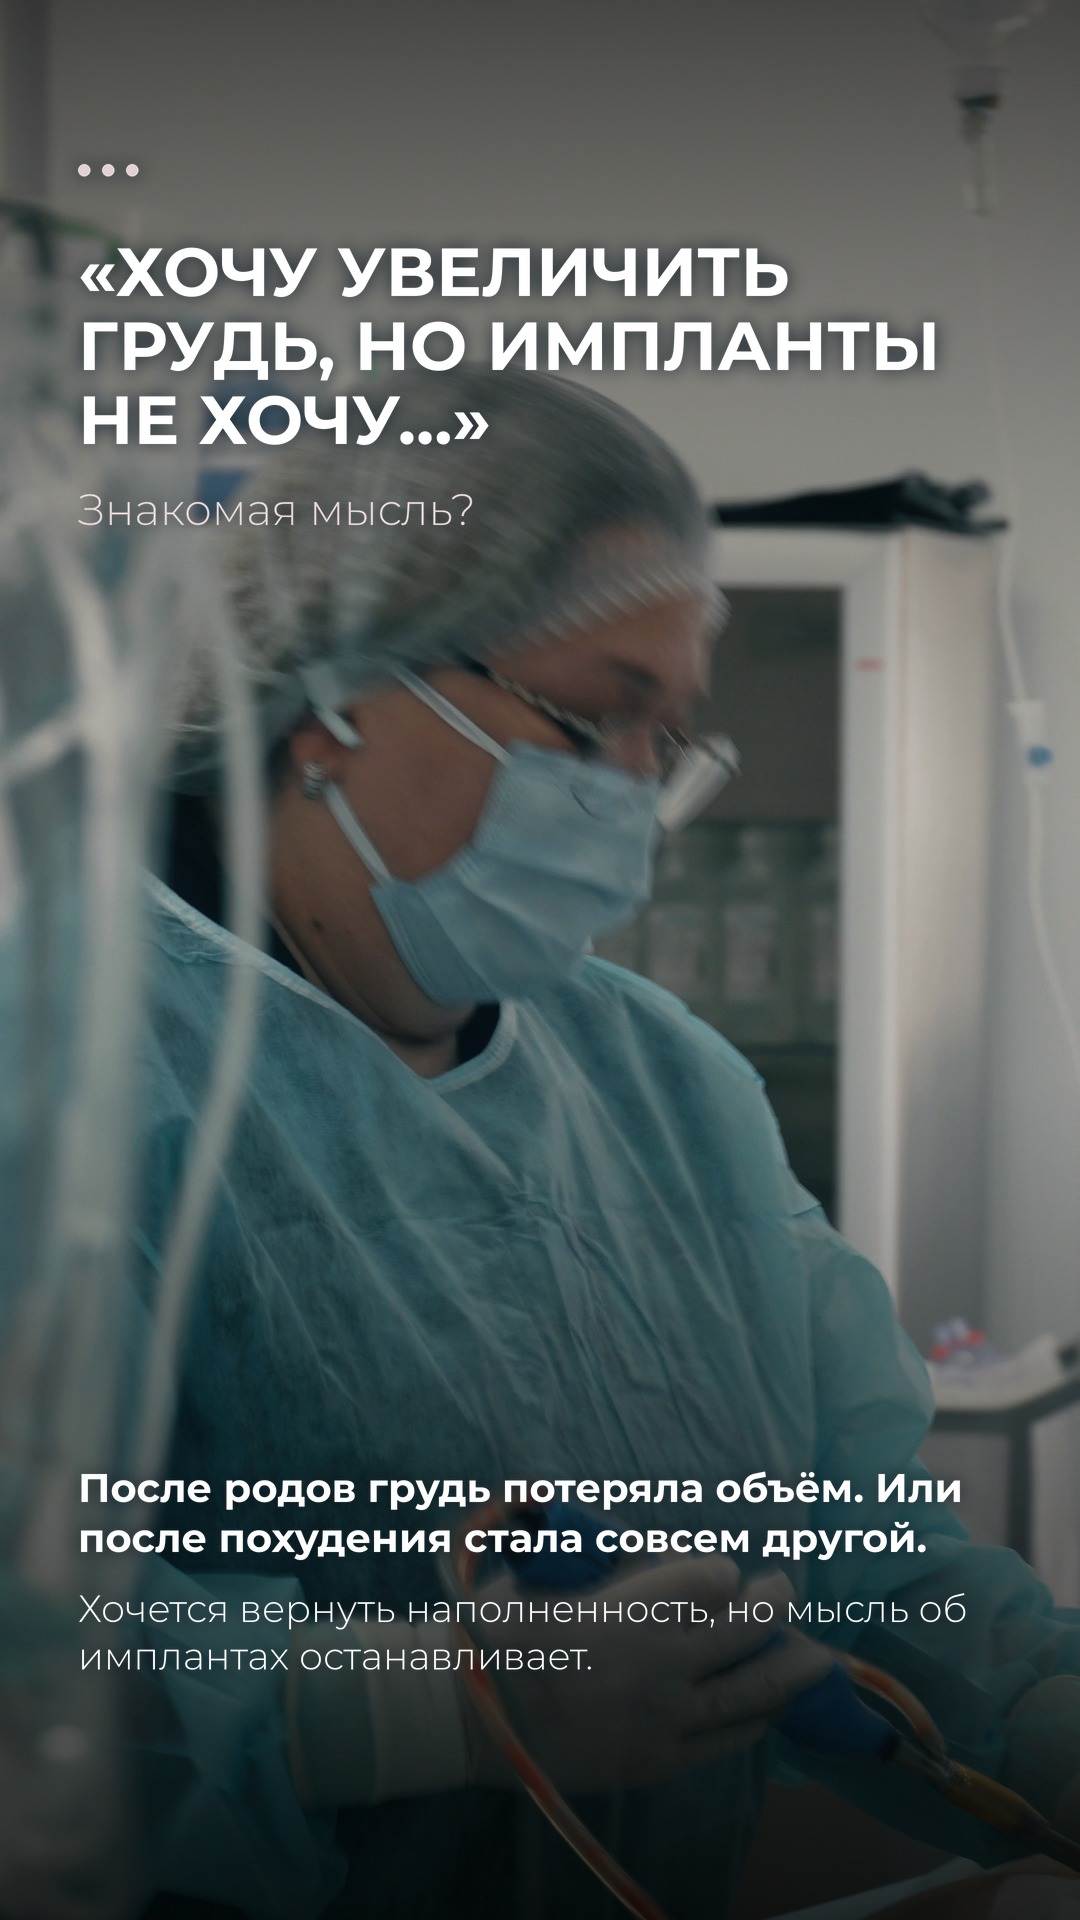
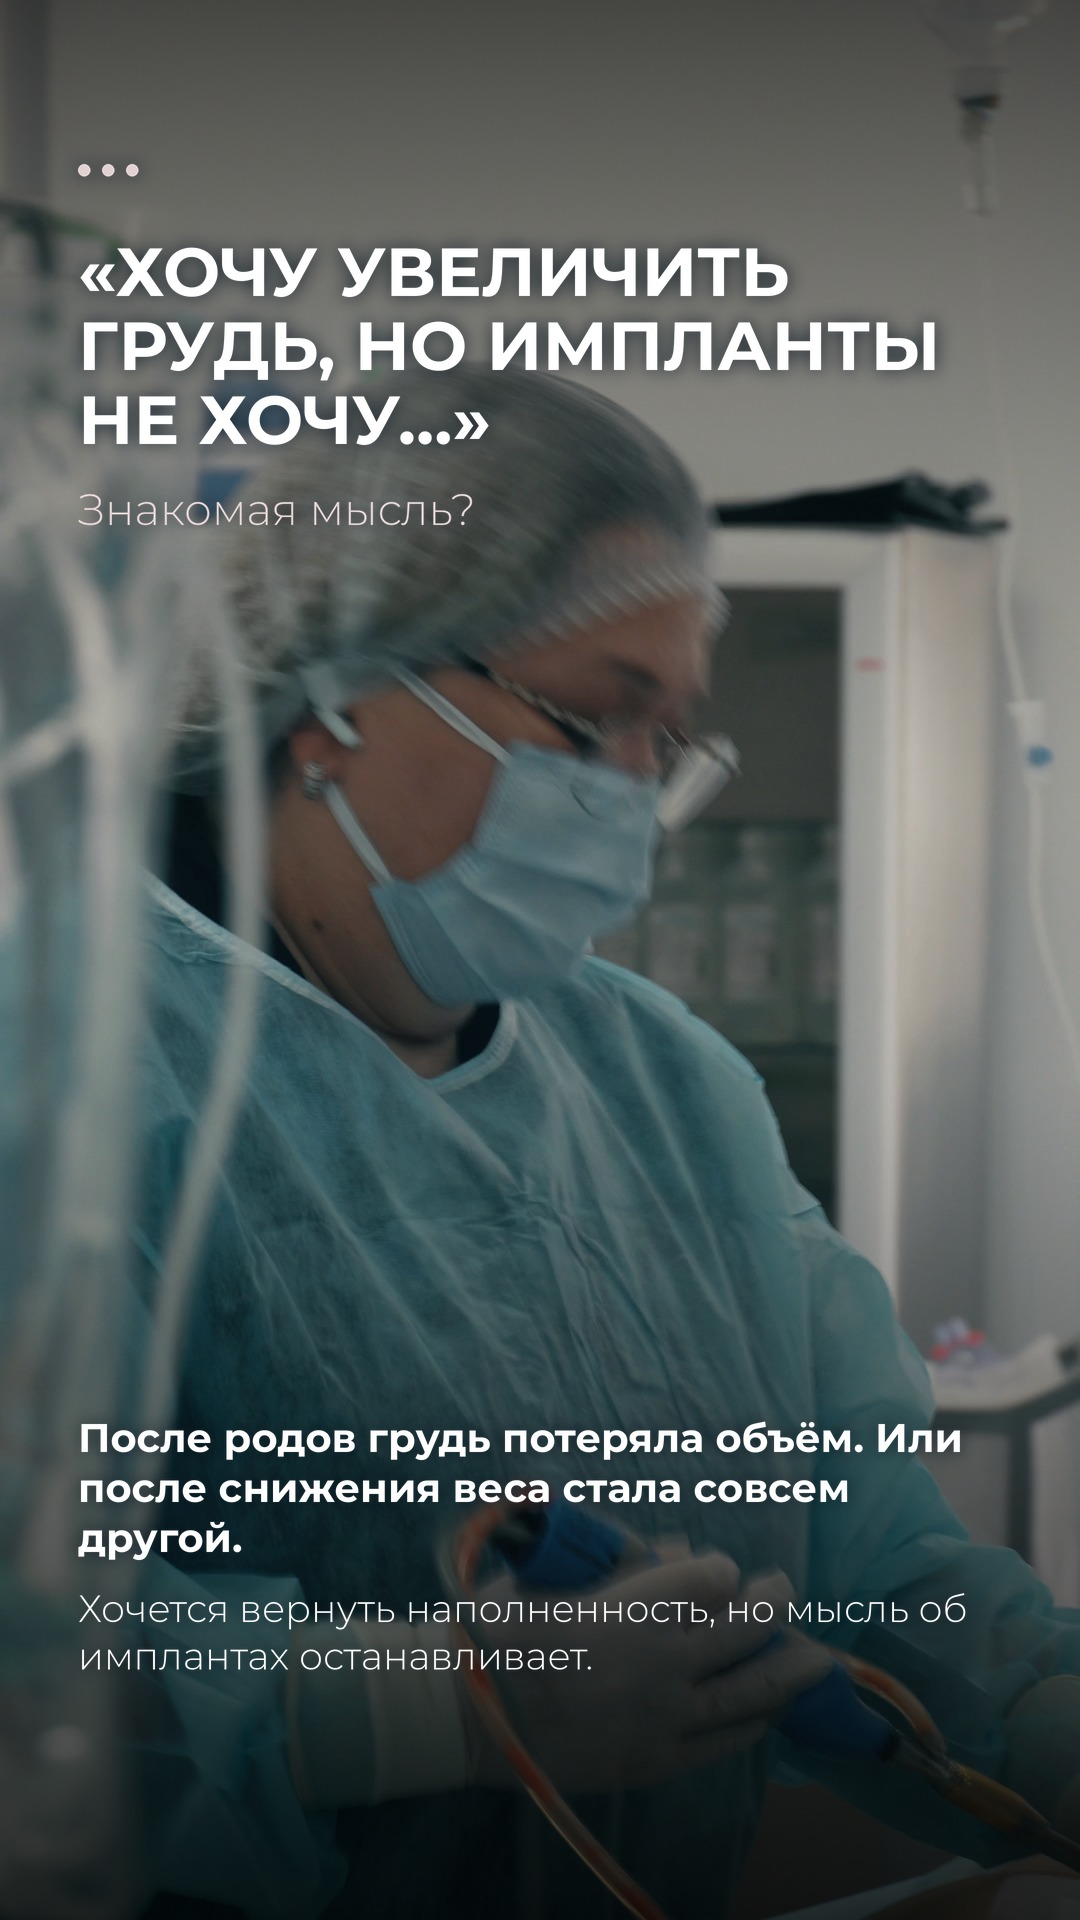
Stories lipofilling or implants: 'снижения веса' wording, disclaimer under the test button
Claude-Session: https://claude.ai/code/session_01DLYcpYAewhkUMdYYshxueL

Changed region(s): [[0.0611, 0.7188, 0.8861, 0.8125]]

diff --git a/tools/stories_lipo_or_implants.py b/tools/stories_lipo_or_implants.py
@@ -193,7 +193,7 @@ def headline(rows, y=230, size=76):
 
 def st1():
     rows = ["«ХОЧУ УВЕЛИЧИТЬ", "ГРУДЬ, НО ИМПЛАНТЫ", "НЕ ХОЧУ…»"]; size, lh, hy = headline(rows)
-    t1 = "После родов грудь потеряла объём. Или после похудения стала совсем другой."
+    t1 = "После родов грудь потеряла объём. Или после снижения веса стала совсем другой."
     t2 = "Хочется вернуть наполненность, но мысль об имплантах останавливает."
     y0, y1 = bottom_block(t1, t2, 40, 38)
     els = [E(lambda sl: (dots(sl, 170), [sl.text((X, 230 + i * lh), r, mont(size, BOLD), WHITE) for i, r in enumerate(rows)]), 0.3, "rise", 0.7),
@@ -268,8 +268,11 @@ def st4():
         fb = mont(46, BOLD); bt = "«ТЕСТ»"; bw = fb.getlength(bt) / S
         sl.rrect((W / 2 - bw / 2 - 60, 1550, W / 2 + bw / 2 + 60, 1650), 50, POWDER)
         sl.text((W / 2, 1600), bt, fb, NAVY, "mm")
+        fn = mont(28, THIN)
+        for i, r in enumerate(["Помним, что тест не заменяет индивидуальную", "консультацию по вашему случаю"]):
+            sl.text((W / 2, 1700 + i * 38), r, fn, WHITE, "mm")
     els.append(E(cta, 4.2, "rise", 0.7))
-    els.append(E(lambda sl: logo(sl, 1760, POWDER, 0.9, 0.85), 4.6, "fade"))
+    els.append(E(lambda sl: logo(sl, 1815, POWDER, 0.9, 0.85), 4.6, "fade"))
     render(4, lambda d: footage(PHOTO, 0, d, cx=0.5, cy=0.12, zoom=1.05), veil(640, 980, 0.6, 0.85), els, 6.5)
 
 
